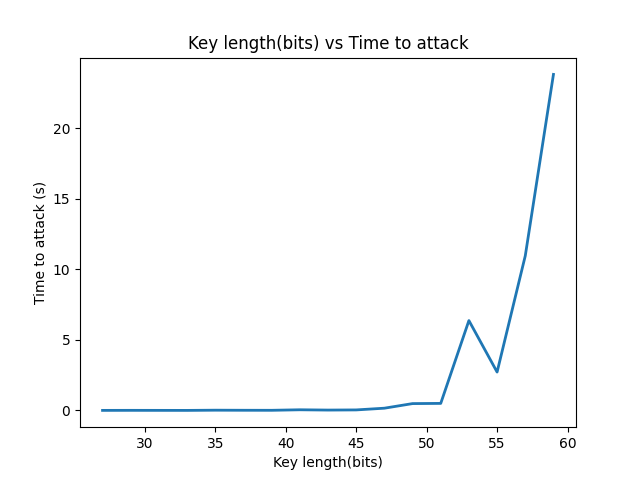
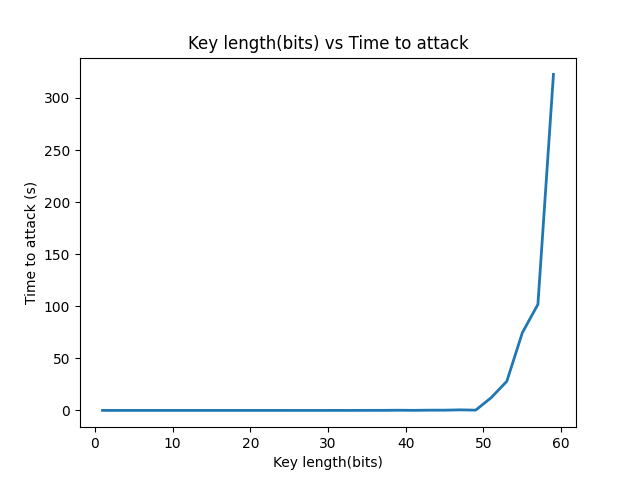
update images

diff --git a/attack.py b/attack.py
@@ -125,13 +125,13 @@ while True:
 
         # -------------------- Generate p,q for n bits ---------------------
         # put them in text file to use later
-        with open('keylengthVsTimeAttack.txt', 'w') as f:
-            for n in range(27, 65, 1):
-                p, q = common_functions.generate_pq(n)
-                f.write(str(p) + "\n")
-                f.write(str(q) + "\n")
-                f.write("\n")
-        f.close()
+        # with open('keylengthVsTimeAttack.txt', 'w') as f:
+        #     for n in range(1, 65, 2):
+        #         p, q = common_functions.generate_pq(n)
+        #         f.write(str(p) + "\n")
+        #         f.write(str(q) + "\n")
+        #         f.write("\n")
+        # f.close()
 
         # ---------------------------------------------------
         # store key_lengths, time_to_attack in lists to compare and plot later
@@ -147,7 +147,7 @@ while True:
         # for jumping in lines
         i = 0
         # for printing only
-        j = 27
+        j = 1
 
         # store c, e, n in lists only to save results in a txt file
         C_list = []
@@ -193,7 +193,7 @@ while True:
             e_list.append(Bob.e)
             n_list.append(Bob.p*Bob.q)
             # --------------------------------------------
-            j += 1
+            j += 2
             i += 3
 
         Bob_data.close()

diff --git a/effeciency.py b/effeciency.py
@@ -15,13 +15,13 @@ decryption_time = []
 
 # -------------------- Generate p,q for n bits ---------------------
 # put them in text file to use later
-with open('efficiencyPQ.txt', 'w') as f:
-    for n in range(27, 3000, 1):
-        p, q = common_functions.generate_pq(n)
-        f.write(str(p) + "\n")
-        f.write(str(q) + "\n")
-        f.write("\n")
-f.close()
+# with open('efficiencyPQ.txt', 'w') as f:
+#     for n in range(27, 3000, 1):
+#         p, q = common_functions.generate_pq(n)
+#         f.write(str(p) + "\n")
+#         f.write(str(q) + "\n")
+#         f.write("\n")
+# f.close()
 
 # read message to be encrypted
 test_file = open("graphs_msg.txt", "r")
